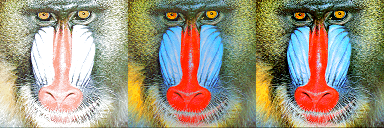
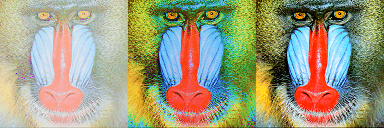
Bugfix AdjustValue, swapped factor and value in condition :/

diff --git a/HSL.cs b/HSL.cs
@@ -34,7 +34,7 @@ namespace image_processor
 
 
             float H = 0;
-            if (C != 0)
+            if (Math.Abs(C) > 0.0001)
             {
                 if (xMax == r)
                 {
@@ -64,9 +64,9 @@ namespace image_processor
             float a = S * Math.Min(L, 1 - L);
             return L - a * Math.Max(-1, Math.Min(Math.Min(k - 3, 9 - k), 1));
         }
-
+     
         public static byte ToByte(float f) =>
-            f < 0 ? (byte)0 : (byte)(Math.Min(255, Math.Round(f * 255f)));
+            f < 0 ? (byte)0 : (byte)(Math.Min(255f, Math.Round(f * 255f)));
 
         public static float ByteToFloat(byte b) => b / 255f;
     }

diff --git a/Extensions.cs b/Extensions.cs
@@ -166,9 +166,9 @@ namespace image_processor
 
         public static float AdjustValue(this float value, float factor)
         {
-            if (value < 1) return value * factor;
+            if (factor < 1) return value * factor;
 
-            return 1 - (1 - value) * 2f * factor;
+            return 1 - (1 - value) * (2f - factor);
         }
     }
 
